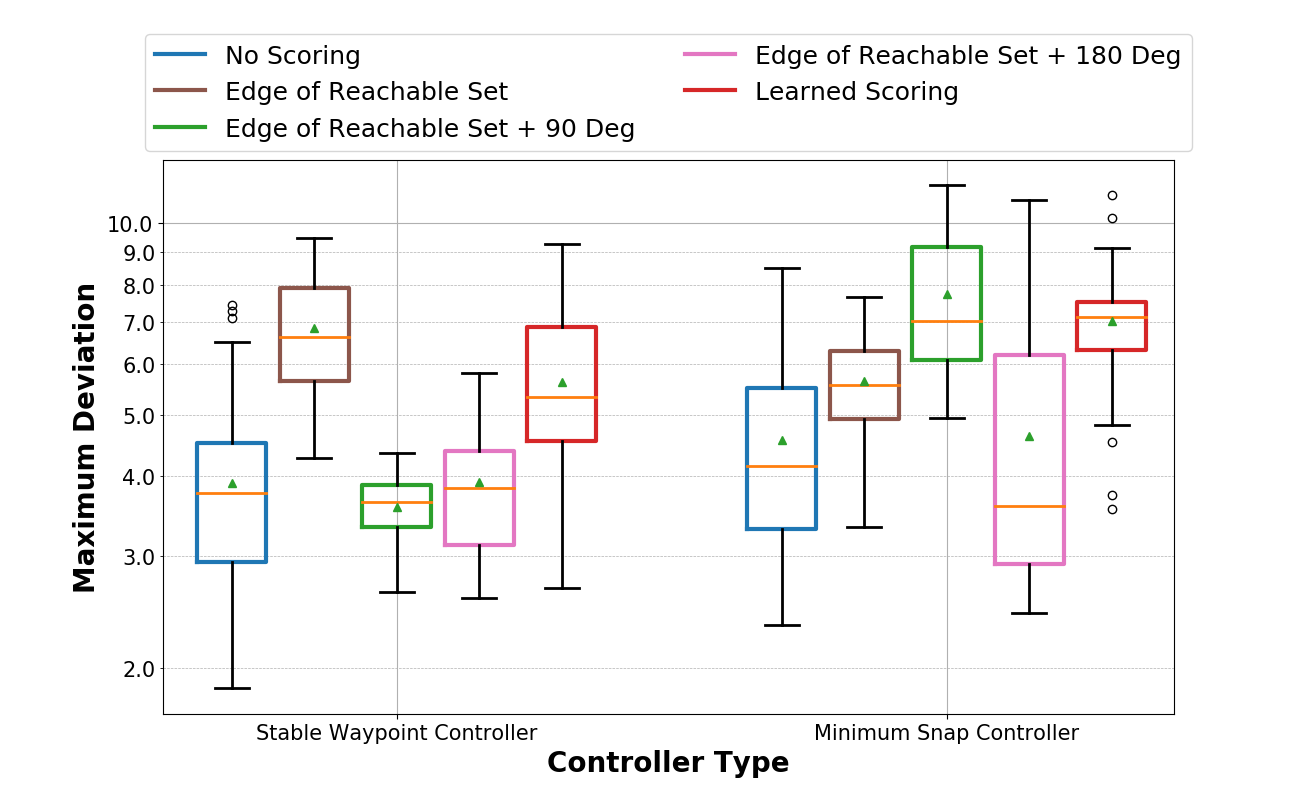
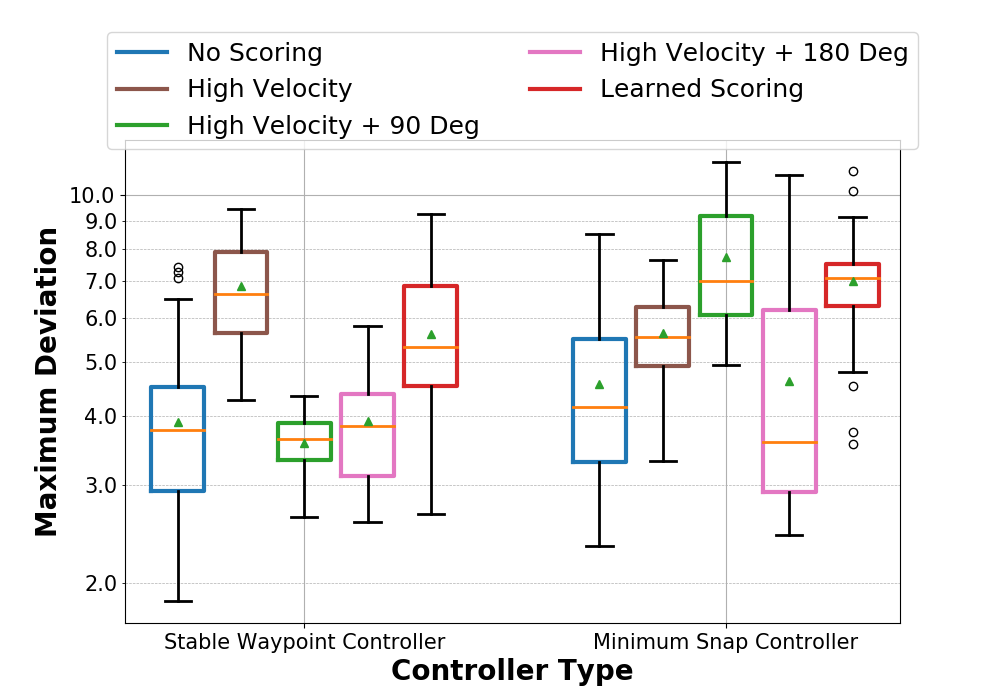
Updated the scoring function image

diff --git a/TestGeneration/AnalyzeResults/graphDeviation.py b/TestGeneration/AnalyzeResults/graphDeviation.py
@@ -44,15 +44,15 @@ def add_values(bp, ax, left=False):
 
 
 
-# # For RQ1
-main_folder = "/home/autosoftlab/Desktop/RobotTestGeneration/TestGeneration/FinalResults/initial_run_flown/"
-# main_folder = "/Users/carlhildebrandt/Dropbox/UVA/Research/Work/RobotTestGeneration/TestGeneration/FinalResults/initial_run_flown/"
+# # # For RQ1
+# main_folder = "/home/autosoftlab/Desktop/RobotTestGeneration/TestGeneration/FinalResults/initial_run_flown/"
+# # main_folder = "/Users/carlhildebrandt/Dropbox/UVA/Research/Work/RobotTestGeneration/TestGeneration/FinalResults/initial_run_flown/"
 
-# # For the RQ1 length 5
-# all_folders = ["initial_MIT_seed10_length5_nodes250_res4_beamwidth5_totaltime3600_simtime45_searchtype_kinematic_scoretype_random/"]
+# # # For the RQ1 length 5
+# # all_folders = ["initial_MIT_seed10_length5_nodes250_res4_beamwidth5_totaltime3600_simtime45_searchtype_kinematic_scoretype_random/"]
 
-# For the RQ1 length 10
-all_folders = ["/initial_MIT_seed10_length10_nodes250_res4_beamwidth5_totaltime7200_simtime90_searchtype_kinematic_scoretype_random/"]
+# # For the RQ1 length 10
+# all_folders = ["/initial_MIT_seed10_length10_nodes250_res4_beamwidth5_totaltime7200_simtime90_searchtype_kinematic_scoretype_random/"]
 
 
 
@@ -64,7 +64,7 @@ all_folders = ["/initial_MIT_seed10_length10_nodes250_res4_beamwidth5_totaltime7
 
 
 # # For RQ2
[3 lines of base64/hex data omitted]
 
 # For the RQ2 length 5
@@ -79,17 +79,17 @@ all_folders = ["/initial_MIT_seed10_length10_nodes250_res4_beamwidth5_totaltime7
 #                 "learned_run_flown/learned_speed10_minsnap0_MIT_seed10_length5_nodes250_res4_beamwidth5_totaltime3600_simtime45_searchtype_kinematic_scoretype_learned/",
 #                 "learned_run_flown/learned_speed-1_minsnap1_MIT_seed10_length5_nodes250_res4_beamwidth5_totaltime3600_simtime45_searchtype_kinematic_scoretype_learned/"]
 
-# # For the RQ2 length 10
-# all_folders = ["initial_run_flown/initial_MIT_seed10_length10_nodes250_res4_beamwidth5_totaltime7200_simtime90_searchtype_kinematic_scoretype_random/",
-#                 "handcrafted_run_flown/handcrafted_MIT_seed10_length10_nodes250_res4_beamwidth5_totaltime3600_simtime90_searchtype_kinematic_scoretype_edge/",
-#                 "handcrafted_run_flown/handcrafted_MIT_seed10_length10_nodes250_res4_beamwidth5_totaltime3600_simtime90_searchtype_kinematic_scoretype_edge90/",
-#                 "handcrafted_run_flown/handcrafted_MIT_seed10_length10_nodes250_res4_beamwidth5_totaltime3600_simtime90_searchtype_kinematic_scoretype_edge180/",
-#                 "learned_run_flown/learned_speed-2_minsnap0_MIT_seed10_length10_nodes250_res4_beamwidth5_totaltime3600_simtime90_searchtype_kinematic_scoretype_learned/",
-#                 "learned_run_flown/learned_speed-1_minsnap0_MIT_seed10_length10_nodes250_res4_beamwidth5_totaltime3600_simtime90_searchtype_kinematic_scoretype_learned/",
-#                 "learned_run_flown/learned_speed2_minsnap0_MIT_seed10_length10_nodes250_res4_beamwidth5_totaltime3600_simtime90_searchtype_kinematic_scoretype_learned/",
-#                 "learned_run_flown/learned_speed5_minsnap0_MIT_seed10_length10_nodes250_res4_beamwidth5_totaltime3600_simtime90_searchtype_kinematic_scoretype_learned/",
-#                 "learned_run_flown/learned_speed10_minsnap0_MIT_seed10_length10_nodes250_res4_beamwidth5_totaltime3600_simtime90_searchtype_kinematic_scoretype_learned/",
-#                 "learned_run_flown/learned_speed-1_minsnap1_MIT_seed10_length10_nodes250_res4_beamwidth5_totaltime3600_simtime90_searchtype_kinematic_scoretype_learned/"]
+# For the RQ2 length 10
+all_folders = ["initial_run_flown/initial_MIT_seed10_length10_nodes250_res4_beamwidth5_totaltime7200_simtime90_searchtype_kinematic_scoretype_random/",
+                "handcrafted_run_flown/handcrafted_MIT_seed10_length10_nodes250_res4_beamwidth5_totaltime3600_simtime90_searchtype_kinematic_scoretype_edge/",
+                "handcrafted_run_flown/handcrafted_MIT_seed10_length10_nodes250_res4_beamwidth5_totaltime3600_simtime90_searchtype_kinematic_scoretype_edge90/",
+                "handcrafted_run_flown/handcrafted_MIT_seed10_length10_nodes250_res4_beamwidth5_totaltime3600_simtime90_searchtype_kinematic_scoretype_edge180/",
+                "learned_run_flown/learned_speed-2_minsnap0_MIT_seed10_length10_nodes250_res4_beamwidth5_totaltime3600_simtime90_searchtype_kinematic_scoretype_learned/",
+                "learned_run_flown/learned_speed-1_minsnap0_MIT_seed10_length10_nodes250_res4_beamwidth5_totaltime3600_simtime90_searchtype_kinematic_scoretype_learned/",
+                "learned_run_flown/learned_speed2_minsnap0_MIT_seed10_length10_nodes250_res4_beamwidth5_totaltime3600_simtime90_searchtype_kinematic_scoretype_learned/",
+                "learned_run_flown/learned_speed5_minsnap0_MIT_seed10_length10_nodes250_res4_beamwidth5_totaltime3600_simtime90_searchtype_kinematic_scoretype_learned/",
+                "learned_run_flown/learned_speed10_minsnap0_MIT_seed10_length10_nodes250_res4_beamwidth5_totaltime3600_simtime90_searchtype_kinematic_scoretype_learned/",
+                "learned_run_flown/learned_speed-1_minsnap1_MIT_seed10_length10_nodes250_res4_beamwidth5_totaltime3600_simtime90_searchtype_kinematic_scoretype_learned/"]
 
 
 # # For RQ3
@@ -275,142 +275,40 @@ print("Failed tests: " + str(failed_tests))
 
 
 
-# RQ1
+# # RQ1
 
-# Create a set of data which contains only a single type waypoint controller for RQ2
+# # Create a set of data which contains only a single type waypoint controller for RQ2
 
-waypoint_results = []
-sys = "speed-1_minsnap0"
-for item in final_data:
-    if "kinematic" in item['test_set'] and sys == item['system_type']:
-        waypoint_results.append(item['max_deviation'])
-        waypoint_results.append(item['average_deviation'])
-        waypoint_results.append(item['total_time'])
-        waypoint_results.append(item['avg_velocity'])
-        waypoint_results.append(item['max_acceleration'])
-
-
-# Plot here
+# waypoint_results = []
+# sys = "speed-1_minsnap0"
+# for item in final_data:
+#     if "kinematic" in item['test_set'] and sys == item['system_type']:
+#         waypoint_results.append(item['max_deviation'])
+#         waypoint_results.append(item['average_deviation'])
+#         waypoint_results.append(item['total_time'])
+#         waypoint_results.append(item['avg_velocity'])
+#         waypoint_results.append(item['max_acceleration'])
 
 
-ticks = ["Max Deviation", "Avg Deviation", "Total Time", "Avg Velocity", "Max Acceleration"]
-
-fig1, ax1 = plt.subplots(1, 1, figsize=(10, 9))
-
-ax1.grid()
-ax1.grid(which='minor', linestyle='--', linewidth=0.5)
-
-bpl = plt.boxplot(waypoint_results, showmeans=True)
-
-set_box_color(bpl, '#000000')
-
-plt.yticks(fontsize=15)
-plt.xticks(1 + np.arange(len(ticks)), ticks, fontsize=15, rotation=10)
-
-plt.xlabel("Performance Metric", fontweight='bold', fontsize=20)
-plt.ylabel("Measured Value", fontweight='bold', fontsize=20)
-
-# log scale
-from matplotlib.ticker import FormatStrFormatter
-plt.yscale('log')
-plt.tick_params(axis='y', which='minor', labelsize=15)
-ax1.yaxis.set_minor_formatter(FormatStrFormatter("%.1f"))
-ax1.yaxis.set_major_formatter(FormatStrFormatter("%.1f"))
-
-plt.show()
+# # Plot here
 
 
+# ticks = ["Max Deviation", "Avg Deviation", "Total Time", "Avg Velocity", "Max Acceleration"]
 
-
-
-
-
-
-
-
-
-
-
-
-
-
-
-
-
-
-
-
-
-
-
-
-
-# # RQ2) <------ Multiple Controllers
-
-# selectedR2_systems = ["speed-1_minsnap0", "speed-1_minsnap1"]
-# randomscore_results = []
-# edgecore_results = []
-# edge90score_results = []
-# edge180score_results = []
-# learnedscore_results = []
-
-# for sys in selectedR2_systems:
-#     for item in final_data:
-#         if "scoretype_random/" in item['test_set'] and sys == item['system_type']:
-#             randomscore_results.append(item['max_deviation'])
-
-#     for item in final_data:
-#         if "scoretype_edge/" in item['test_set'] and sys == item['system_type']:
-#             edgecore_results.append(item['max_deviation'])
-
-#     for item in final_data:
-#         if "scoretype_edge90/" in item['test_set'] and sys == item['system_type']:
-#             edge90score_results.append(item['max_deviation'])
-
-#     for item in final_data:
-#         if "scoretype_edge180/" in item['test_set'] and sys == item['system_type']:
-#             edge180score_results.append(item['max_deviation'])
-
-#     for item in final_data:
-#         if "scoretype_learned/" in item['test_set'] and sys == item['system_type'] and sys in item['test_set']:
-#             learnedscore_results.append(item['max_deviation'])
-
-
-# ticks = ["Stable Waypoint Controller", "Minimum Snap Controller"]
-# fig1, ax1 = plt.subplots(1, 1, figsize=(10, 7))
-
-# bp1 = plt.boxplot(randomscore_results, positions=4*np.arange(len(randomscore_results)), showmeans=True)
-# bp2 = plt.boxplot(edgecore_results, positions=4*np.arange(len(edgecore_results))+0.6, showmeans=True)
-# bp3 = plt.boxplot(edge90score_results, positions=4*np.arange(len(edge90score_results))+1.2, showmeans=True)
-# bp4 = plt.boxplot(edge180score_results, positions=4*np.arange(len(edge180score_results))+1.8, showmeans=True)
-# bp5 = plt.boxplot(learnedscore_results, positions=4*np.arange(len(learnedscore_results))+2.4, showmeans=True)
+# fig1, ax1 = plt.subplots(1, 1, figsize=(10, 9))
 
 # ax1.grid()
 # ax1.grid(which='minor', linestyle='--', linewidth=0.5)
 
-# # add_values(bpl, ax1)
-# # add_values(bpr, ax1)
-# set_box_color(bp1, 'C0')
-# set_box_color(bp2, 'C5')
-# set_box_color(bp3, 'C2')
-# set_box_color(bp4, 'C6')
-# set_box_color(bp5, 'C3')
+# bpl = plt.boxplot(waypoint_results, showmeans=True)
 
-# plt.plot([], c='C0', linewidth=3, label='No Scoring')
-# plt.plot([], c='C5', linewidth=3, label='Edge of Reachable Set')
-# plt.plot([], c='C2', linewidth=3, label='Edge of Reachable Set + 90 Deg')
-# plt.plot([], c='C6', linewidth=3, label='Edge of Reachable Set + 180 Deg')
-# plt.plot([], c='C3', linewidth=3, label='Learned Scoring')
-# ax1.legend(loc='upper center', bbox_to_anchor=(0.5, 1.25), ncol=2, fontsize=18)
-# plt.subplots_adjust(top=0.8)
-
-# plt.xlim([-0.5, 4*len(randomscore_results)-1.15])
+# set_box_color(bpl, '#000000')
 
 # plt.yticks(fontsize=15)
-# plt.xticks(4 * np.arange(len(ticks)) + 1.2, ticks, fontsize=15, rotation=0)
+# plt.xticks(1 + np.arange(len(ticks)), ticks, fontsize=15, rotation=10)
 
-# plt.xlabel("Controller Type", fontweight='bold', fontsize=20)
-# plt.ylabel("Maximum Deviation", fontweight='bold', fontsize=20)
+# plt.xlabel("Performance Metric", fontweight='bold', fontsize=20)
+# plt.ylabel("Measured Value", fontweight='bold', fontsize=20)
 
 # # log scale
 # from matplotlib.ticker import FormatStrFormatter
@@ -420,6 +318,108 @@ plt.show()
 # ax1.yaxis.set_major_formatter(FormatStrFormatter("%.1f"))
 
 # plt.show()
+
+
+
+
+
+
+
+
+
+
+
+
+
+
+
+
+
+
+
+
+
+
+
+
+
+
+
+# RQ2) <------ Multiple Controllers
+
+selectedR2_systems = ["speed-1_minsnap0", "speed-1_minsnap1"]
+randomscore_results = []
+edgecore_results = []
+edge90score_results = []
+edge180score_results = []
+learnedscore_results = []
+
+for sys in selectedR2_systems:
+    for item in final_data:
+        if "scoretype_random/" in item['test_set'] and sys == item['system_type']:
+            randomscore_results.append(item['max_deviation'])
+
+    for item in final_data:
+        if "scoretype_edge/" in item['test_set'] and sys == item['system_type']:
+            edgecore_results.append(item['max_deviation'])
+
+    for item in final_data:
+        if "scoretype_edge90/" in item['test_set'] and sys == item['system_type']:
+            edge90score_results.append(item['max_deviation'])
+
+    for item in final_data:
+        if "scoretype_edge180/" in item['test_set'] and sys == item['system_type']:
+            edge180score_results.append(item['max_deviation'])
+
+    for item in final_data:
+        if "scoretype_learned/" in item['test_set'] and sys == item['system_type'] and sys in item['test_set']:
+            learnedscore_results.append(item['max_deviation'])
+
+
+ticks = ["Stable Waypoint Controller", "Minimum Snap Controller"]
+fig1, ax1 = plt.subplots(1, 1, figsize=(10, 7))
+
+bp1 = plt.boxplot(randomscore_results, positions=4*np.arange(len(randomscore_results)), showmeans=True)
+bp2 = plt.boxplot(edgecore_results, positions=4*np.arange(len(edgecore_results))+0.6, showmeans=True)
+bp3 = plt.boxplot(edge90score_results, positions=4*np.arange(len(edge90score_results))+1.2, showmeans=True)
+bp4 = plt.boxplot(edge180score_results, positions=4*np.arange(len(edge180score_results))+1.8, showmeans=True)
+bp5 = plt.boxplot(learnedscore_results, positions=4*np.arange(len(learnedscore_results))+2.4, showmeans=True)
+
+ax1.grid()
+ax1.grid(which='minor', linestyle='--', linewidth=0.5)
+
+# add_values(bpl, ax1)
+# add_values(bpr, ax1)
+set_box_color(bp1, 'C0')
+set_box_color(bp2, 'C5')
+set_box_color(bp3, 'C2')
+set_box_color(bp4, 'C6')
+set_box_color(bp5, 'C3')
+
+plt.plot([], c='C0', linewidth=3, label='No Scoring')
+plt.plot([], c='C5', linewidth=3, label='High Velocity')
+plt.plot([], c='C2', linewidth=3, label='High Velocity + 90 Deg')
+plt.plot([], c='C6', linewidth=3, label='High Velocity + 180 Deg')
+plt.plot([], c='C3', linewidth=3, label='Learned Scoring')
+ax1.legend(loc='upper center', bbox_to_anchor=(0.5, 1.25), ncol=2, fontsize=18)
+plt.subplots_adjust(top=0.8)
+
+plt.xlim([-0.5, 4*len(randomscore_results)-1.15])
+
+plt.yticks(fontsize=15)
+plt.xticks(4 * np.arange(len(ticks)) + 1.2, ticks, fontsize=15, rotation=0)
+
+plt.xlabel("Controller Type", fontweight='bold', fontsize=20)
+plt.ylabel("Maximum Deviation", fontweight='bold', fontsize=20)
+
+# log scale
+from matplotlib.ticker import FormatStrFormatter
+plt.yscale('log')
+plt.tick_params(axis='y', which='minor', labelsize=15)
+ax1.yaxis.set_minor_formatter(FormatStrFormatter("%.1f"))
+ax1.yaxis.set_major_formatter(FormatStrFormatter("%.1f"))
+
+plt.show()
 
 
 # # RQ2) <------ Multiple Metrics
